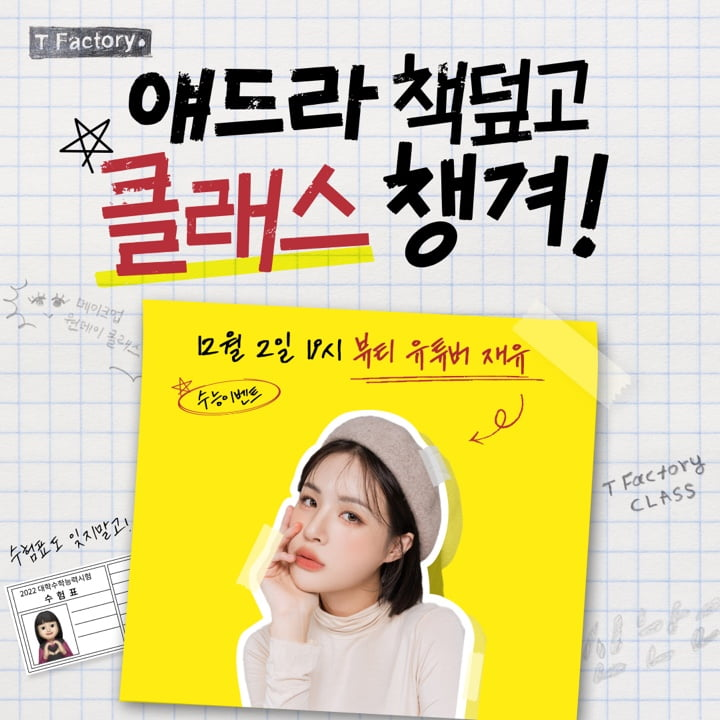
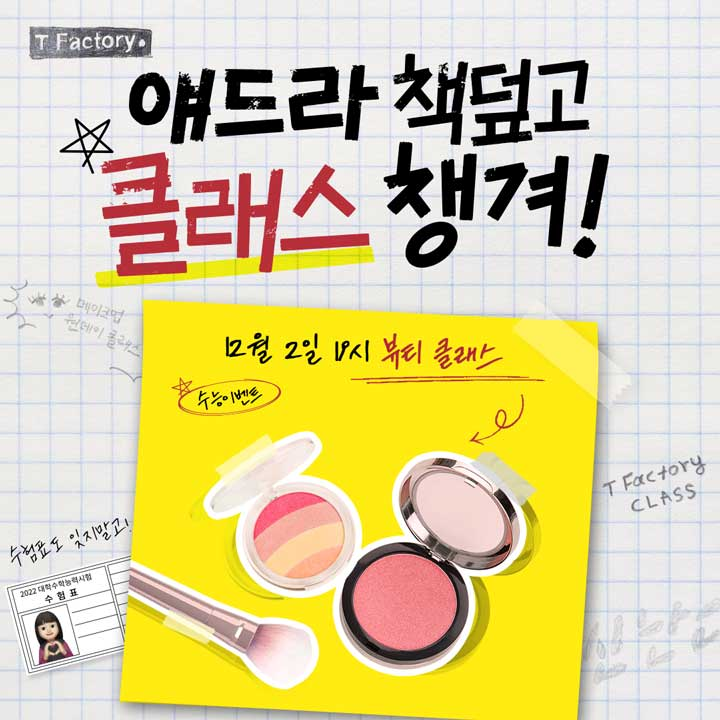
program 257 - 이미지 변경, 문구 수정 program 258 - 문구 수정

diff --git a/src/components/product/program/Program257.vue b/src/components/product/program/Program257.vue
@@ -30,9 +30,9 @@
         <ol class="step-list" style="margin-top:12px; line-height: 1.71;">
           <li style="margin-bottom:12px;">
 						<span class="sub_title" style="font-weight: bold; color: #0b0a0a;">클래스 내용</span><br>
-						<span class="desc" style="color: #000;">
-							-예비 대학생을 위한 메이크업 기초 강의뷰티 고민 Q&A<br />
-							-메이크오버 및 메이크업 클래스<br />
+						<span class="desc" style="color: #000; word-break: keep-all;">
+							-예비 대학생을 위한 뷰티 고민 Q&A 및 메이크업 클래스<br />
+							-메이크업 클래스 참석자와 메이크오버 진행<br />
 							(사전 신청자에 한해 1명 추첨)<br />
             </span>
           </li>

diff --git a/src/components/product/program/Program258.vue b/src/components/product/program/Program258.vue
@@ -41,7 +41,7 @@
           </li>
           <li>
 						<span class="sub_title" style="font-weight: bold; color: #0b0a0a;">20만원 할인판매</span><br>
-						<span class="desc">스마트 워치 : Apple Watch S7, SE, 갤럭시 워치5</span>
+						<span class="desc">스마트 워치 : Apple Watch 7, SE, 갤럭시 워치5</span>
           </li>
         </ol>
 			</div>
